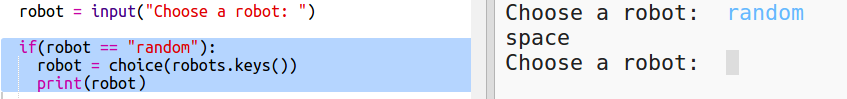
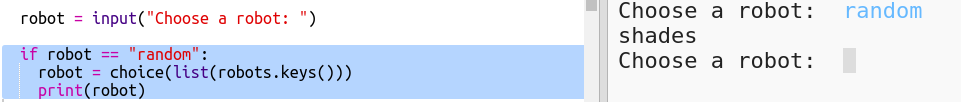
Added cast to list so that project works in Python 3

Changed region(s): [[0.0, 0.0, 0.9823, 1.0], [0.0, 0.0303, 0.3684, 0.2727], [0.3684, 0.0909, 0.3991, 0.1515]]

diff --git a/en-GB/robo-trumps/index.md b/en-GB/robo-trumps/index.md
@@ -217,6 +217,10 @@ Let’s add code so that you get a random robot when you type Random instead of 
 
   ![screenshot](images/robotrumps-choice.png)
   
+  In Python 3 you need to use `list` to turn the results of `keys` into a list. 
+  
+  Tip: Make sure you check your brackets carefully! 
+  
 
 ## Save Your Project {.save}
 
